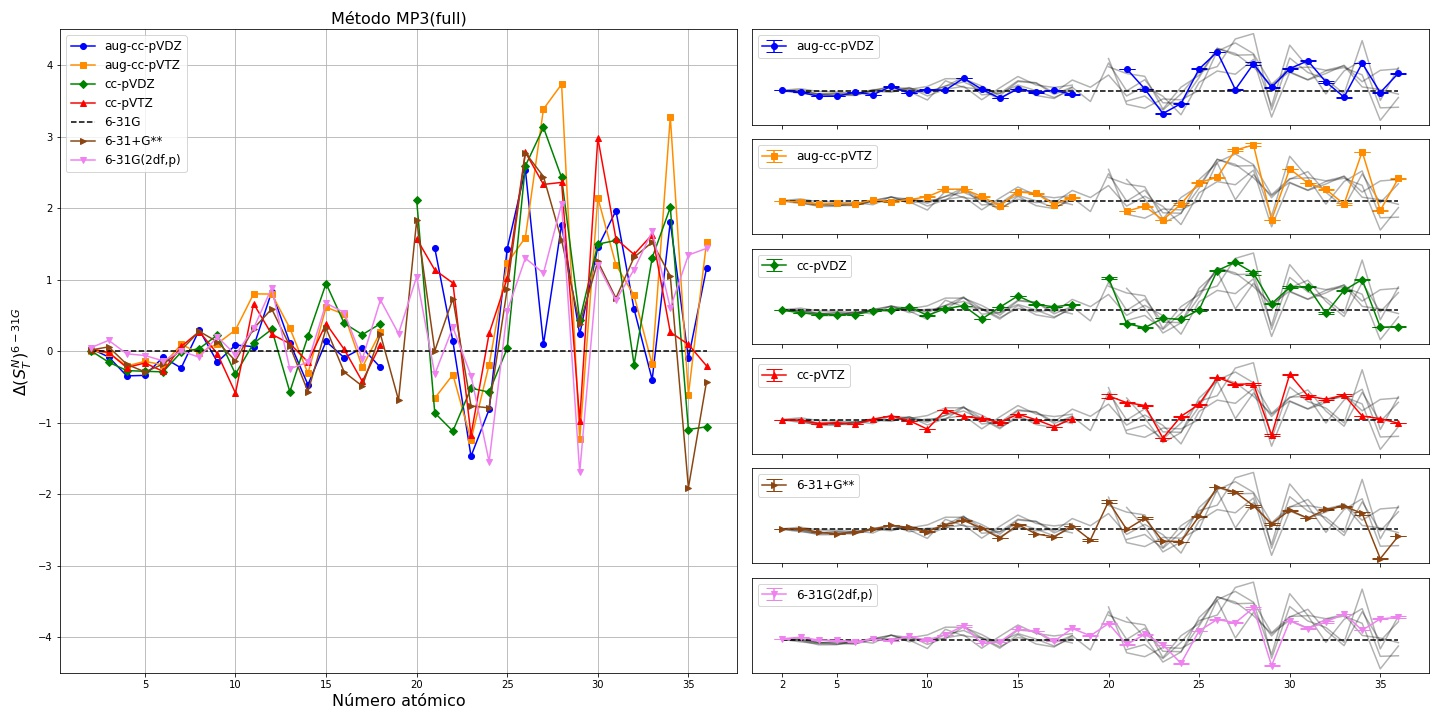
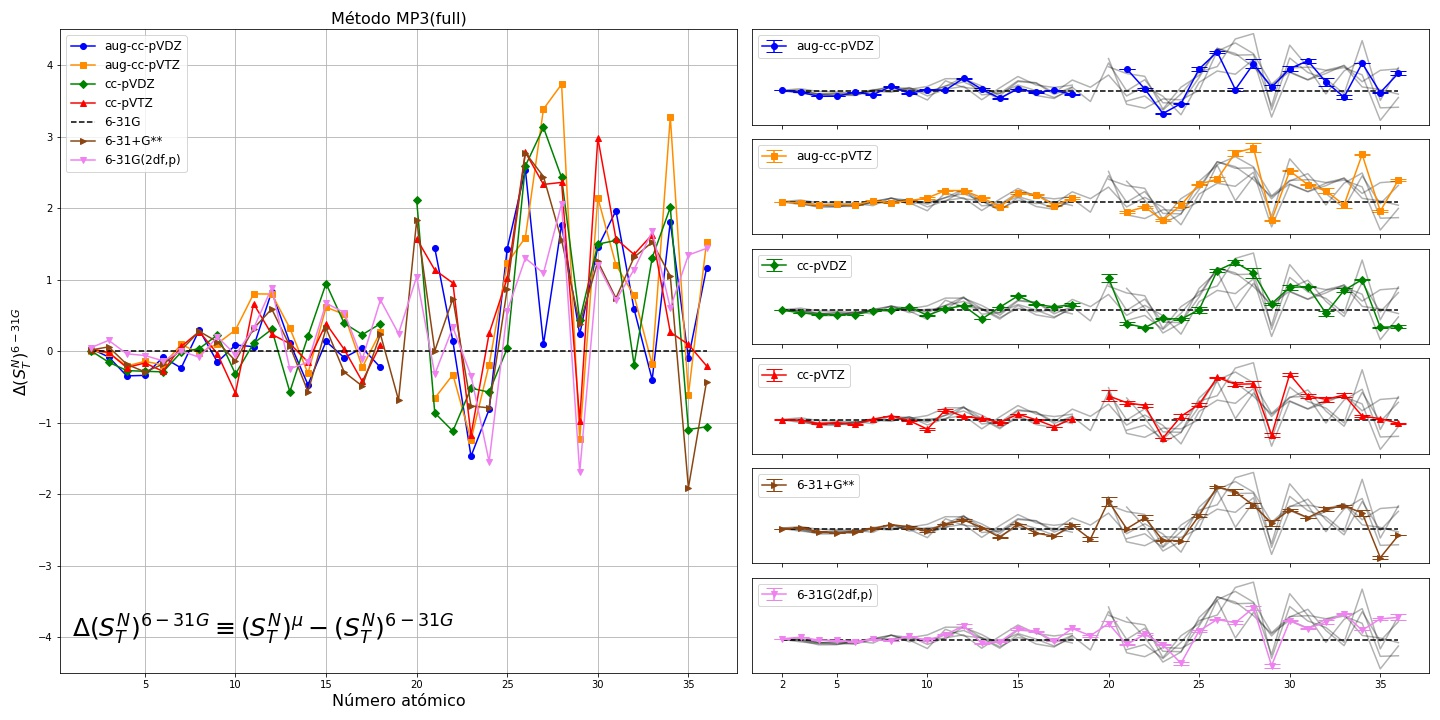
Se retiró el estudio sobre moléculas, se modificaron agradecimientos y dedicatoria, se cambiaron las gráficas por otras que presentaran más información, se agregaron más tablas y se realizaron pequeñas correcciones.

diff --git a/05-Resultados.tex b/05-Resultados.tex
@@ -15,7 +15,30 @@
             \begin{subfigure}{0.75\textwidth}
                 \includegraphics[width=\textwidth]{images/hfk_GraphsNTot.jpg}
                 \caption{}
-                \label{fig: deltasum-hf-n-tot}
+                \label{fig: deltasum-hfk-n-tot}
+            \end{subfigure}
+            \hfill
+            \begin{subfigure}{0.75\textwidth}
+                \includegraphics[width=\textwidth]{images/b3l_GraphsNTot.jpg}
+                \caption{}
+                \label{fig: deltasum-b3l-n-tot}
+            \end{subfigure}
+            \hfill
+            \begin{subfigure}{0.75\textwidth}
+                \includegraphics[width=\textwidth]{images/wb9_GraphsNTot.jpg}
+                \caption{}
+                \label{fig: deltasum-wb9-n-Tot}
+            \end{subfigure}
+            \caption{Diferencias de entropía $\Delta (S_{T}^{N_e})^{6-31G}\equiv(S_{T}^{N_e})^{\mu}-(S_{T}^{N_e})^{6-31G}$, para las bases $\mu\in\{\text{aug-cc-pVDZ, aug-cc-pVTZ, cc-pVDZ, cc-pVTZ, 6-31G, 6-31+G**, 6-31G(2df,p)}\}$ contra número atómico (1--36), para los métodos HF (\ref{fig: deltasum-hfk-n-tot}), B3LYP (\ref{fig: deltasum-b3l-n-tot}) y $\omega$B97X-D (\ref{fig: deltasum-wb9-n-Tot}). El lado izquierdo muestra una comparación entre todas las bases mencionadas con referencia en 6-31G, mientras que el derecho se enfoca en cada una de ellas, agregando barras de error para cada uno de los valores obtenidos.}
+            \label{fig: deltasum-n-tot-1}
+        \end{figure}
+
+        \begin{figure}
+            \centering
+            \begin{subfigure}{0.75\textwidth}
+                \includegraphics[width=\textwidth]{images/mp2_GraphsNTot.jpg}
+                \caption{}
+                \label{fig: deltasum-mp2-n-tot}
             \end{subfigure}
             \hfill
             \begin{subfigure}{0.75\textwidth}
@@ -25,24 +48,24 @@
             \end{subfigure}
             \hfill
             \begin{subfigure}{0.75\textwidth}
-                \includegraphics[width=\textwidth]{images/b3l_GraphsNTot.jpg}
+                \includegraphics[width=\textwidth]{images/mp4_GraphsNTot.jpg}
                 \caption{}
-                \label{fig: deltasum-b3lyp-n-Tot}
+                \label{fig: deltasum-mp4-n-Tot}
             \end{subfigure}
-            \caption{Diferencias de entropía $\Delta (S_{T}^{N_e})^{6-31G}\equiv(S_{T}^{N_e})^{\mu}-(S_{T}^{N_e})^{6-31G}$, para las bases $\mu\in\{\text{aug-cc-pVDZ, aug-cc-pVTZ, cc-pVDZ, cc-pVTZ, 6-31G, 6-31+G**, 6-31G(2df,p)}\}$ contra número atómico (1--36), para los métodos HF (\ref{fig: deltasum-hf-n-tot}), MP3(full) (\ref{fig: deltasum-mp3-n-tot}) y B3LYP (\ref{fig: deltasum-b3lyp-n-Tot}). El lado izquierdo muestra una comparación entre todas las bases mencionadas con referencia en 6-31G, mientras que el derecho se enfoca en cada una de ellas, agregando barras de error para cada uno de los valores obtenidos.}
-            \label{fig: deltasum-n-tot}
+            \caption{Diferencias de entropía $\Delta (S_{T}^{N_e})^{6-31G}\equiv(S_{T}^{N_e})^{\mu}-(S_{T}^{N_e})^{6-31G}$, para las bases $\mu\in\{\text{aug-cc-pVDZ, aug-cc-pVTZ, cc-pVDZ, cc-pVTZ, 6-31G, 6-31+G**, 6-31G(2df,p)}\}$ contra número atómico (1--36), para los métodos MP2(full) (\ref{fig: deltasum-mp2-n-tot}), MP3(full) (\ref{fig: deltasum-mp3-n-tot}) y MP4(SDQ) (\ref{fig: deltasum-mp4-n-Tot}). El lado izquierdo muestra una comparación entre todas las bases mencionadas con referencia en 6-31G, mientras que el derecho se enfoca en cada una de ellas, agregando barras de error para cada uno de los valores obtenidos.}
+            \label{fig: deltasum-n-tot-2}
         \end{figure}
         
-        El comportamiento de las $\Delta (S_{T}^{N_e})^{6-31G}$ para todas las bases que no son referencia muestran aparentes fluctuaciones alrededor del cero que van incrementando proporcionalmente con el número atómico, lo cual indica que las bases habrán de tener calidades semejantes para números atómicos cercanos a 1, mientras que discrepan notoriamente para aquellos cercanos a 36. Esto debido a que las bases describen con mayor dificultad a los átomos conforme el número atómico incrementa. Este evento sucede de manera semejante para todos los métodos restantes.
+        El comportamiento de las $\Delta (S_{T}^{N_e})^{6-31G}$ para todas las bases que no son referencia muestran aparentes fluctuaciones alrededor del cero que van incrementando proporcionalmente con el número atómico, lo cual indica que las bases habrán de tener calidades semejantes para números atómicos cercanos a 1, mientras que discrepan notoriamente para aquellos cercanos a 36. Particularmente, estas fluctuaciones incrementan bruscamente a partir del número atómico 19, donde comienza la presencia de los metales de transición. Todo esto es debido a que las bases describen con mayor dificultad a los átomos conforme el número atómico incrementa y los metales de transición son los primeros en mostrar dificultades en ser descritos por las bases utilizadas.
         
-        Los resultados mostrados en las figuras \ref{fig: deltasum-n-tot} muestran que el uso de la suma de la entropía de Shannon $S_{T}^{N_e}$ podría no fungir como medida confiable para la calidad de las bases si se compara entre diferentes átomos, por ejemplo, el átomo con número atómico 29 en la figura \ref{fig: deltasum-mp3-n-tot} mostraría que la calidad en la base aug-cc-pVTZ es menor a aquella en la base 6-31G, pues $\Delta (S_{T}^{N_e})^{6-31G} = -1.23\pm0.015$, mientras que el átomo con número atómico 30 indicaría el caso contrario con $\Delta (S_{T}^{N_e})^{6-31G} = 2.147\pm0.011$.
+        Los resultados mostrados en las figuras \ref{fig: deltasum-n-tot-1} y \ref{fig: deltasum-n-tot-2} muestran que el uso de la suma de la entropía de Shannon $S_{T}^{N_e}$ podría no fungir como medida confiable para la calidad de las bases si se compara entre diferentes átomos, por ejemplo, el átomo con número atómico 29 en la figura \ref{fig: deltasum-mp3-n-tot} mostraría que la calidad en la base aug-cc-pVTZ es menor a aquella en la base 6-31G, pues $\Delta (S_{T}^{N_e})^{6-31G} = -1.23\pm0.015$, mientras que el átomo con número atómico 30 indicaría el caso contrario con $\Delta (S_{T}^{N_e})^{6-31G} = 2.147\pm0.011$.
         
-        Las tablas \ref{tab: deltasum-n-tot} muestran las sumas de las diferencias $\Delta (S_{T}^{N_e})_i^{6-31G}$ para cada átomo $i$-ésimo, con $i\in\{1,2,...,36\}$, y para una sola base $\mu$,
+        Las tablas \ref{tab: deltasum-n-tot} indican las sumas de las diferencias $\Delta (S_{T}^{N_e})_i^{6-31G}$ para cada átomo $i$-ésimo, con $i\in\{1,2,...,36\}$, y para una sola base $\mu$,
         \begin{align}
             \sum_{i=1}^{36}\Delta (S_{T}^{N_e})_i^{6-31G} = \sum_{i=1}^{36}\Sqbr{(S_{T}^{N_e})_i^{\mu}-(S_{T}^{N_e})_i^{6-31G}},
         \end{align}
-        ordenados de forma descendente para los métodos MP2(full), MP4(SDQ) y $\omega$B97X-D, incluyendo la incertidumbre $\sigma$ para cada suma. La base 6-31G no se muestra en las tablas al ser la referencia de $\Delta (S_{T}^{N_e})_i^{6-31G}$. Al tomar en cuenta el peso de cada término $\Delta (S_{T}^{N_e})_i^{6-31G}$, la suma $\sum_i\Delta (S_{T}^{N_e})_i^{6-31G}$ indicaría la calidad general de la base, dentro de un rango de números atómicos del 1 a 36.
-        
+        ordenados de forma descendente para los métodos MP2(full), MP4(SDQ) y $\omega$B97X-D, incluyendo la incertidumbre $\sigma$ para cada suma. La base 6-31G no se muestra en las tablas al ser la referencia de $\Delta (S_{T}^{N_e})_i^{6-31G}$. Al tomar en cuenta el peso de cada término $\Delta (S_{T}^{N_e})_i^{6-31G}$, la suma $\sum_i\Delta (S_{T}^{N_e})_i^{6-31G}$ indicaría la calidad general de la base, dentro de un rango de números atómicos del 1 a 36. 
+
         \begin{table}[htbp]
             \begin{subtable}[htbp]{0.5\textwidth}
                 \centering
@@ -65,6 +88,22 @@
                 \begin{tabular}{c|c|c}
                     Base & $\sum \Delta (S_{T}^{N_e})_i^{6-31G}$ & $\sigma$ \\
                     \hline \hline
+                    aug-cc-pVTZ & 17.967147 & 0.562968 \\
+                    cc-pVTZ & 17.151206 & 0.401457 \\
+                    6-31G(2df,p) & 13.536851 & 0.200741 \\
+                    6-31+G** & 12.663726 & 0.481137 \\
+                    cc-pVDZ & 11.825322 & 0.467958 \\
+                    aug-cc-pVDZ & 11.465729 & 0.422108 \\
+                \end{tabular}
+                \caption{Método MP3(full)}
+                \label{tab: deltasum-mp3-n-tot}
+            \end{subtable}
+            \hfill
+            \begin{subtable}[htbp]{0.5\textwidth}
+                \centering
+                \begin{tabular}{c|c|c}
+                    Base & $\sum \Delta (S_{T}^{N_e})_i^{6-31G}$ & $\sigma$ \\
+                    \hline \hline
                     cc-pVTZ & 10.128685 & 0.023400 \\
                     cc-pVDZ & 7.921664 & 0.013845 \\
                     aug-cc-pVTZ & 5.947558 & 0.093945 \\
@@ -75,8 +114,40 @@
                 \caption{Método MP4(SDQ)}
                 \label{tab: deltasum-mp4-n-tot}
             \end{subtable}
+             \hfill
+            \begin{subtable}[htbp]{0.5\textwidth}
+                \centering
+                \begin{tabular}{c|c|c}
+                    Base & $\sum \Delta (S_{T}^{N_e})_i^{6-31G}$ & $\sigma$ \\
+                    \hline \hline
+                    aug-cc-pVTZ & -2.687250 & 0.025184 \\
+                    cc-pVTZ & -3.039062 & 0.162700 \\
+                    6-31G(2df,p) & -4.140256 & 0.079262 \\
+                    6-31+G** & -6.363486& 0.153932 \\
+                    cc-pVDZ & -7.008983 & 0.034058 \\
+                    aug-cc-pVDZ & -9.831531 & 0.021970 \\
+                \end{tabular}
+                \caption{Método HF}
+                \label{tab: deltasum-hfk-n-tot}
+            \end{subtable}
             \hfill
-            \begin{subtable}[htbp]{\textwidth}
+            \begin{subtable}[htbp]{0.5\textwidth}
+                \centering
+                \begin{tabular}{c|c|c}
+                    Base & $\sum \Delta (S_{T}^{N_e})_i^{6-31G}$ & $\sigma$ \\
+                    \hline \hline
+                    aug-cc-pVTZ & 7.206050 & 0.016823 \\
+                    cc-pVTZ & 5.880107 & 0.241420 \\
+                    6-31G(2df,p) & 1.880675 & 0.261338 \\
+                    6-31+G** & 1.487288 & 0.053517 \\
+                    cc-pVDZ & 0.701543 & 0.384228 \\
+                    aug-cc-pVDZ & 0.313457 & 0.052916 \\
+                \end{tabular}
+                \caption{Funcional B3LYP}
+                \label{tab: deltasum-b3l-n-tot}
+            \end{subtable}
+            \hfill
+            \begin{subtable}[htbp]{0.5\textwidth}
                 \centering
                 \begin{tabular}{c|c|c}
                     Base & $\sum \Delta (S_{T}^{N_e})_i^{6-31G}$ & $\sigma$ \\
@@ -91,11 +162,15 @@
                 \caption{Funcional $\omega$B97X-D}
                 \label{tab: deltasum-wb9-n-tot}
             \end{subtable}
-            \caption{Suma de las cantidades $\Delta (S_{T}^{N_e})_i^{6-31G}$ sobre todos los átomos desde el hidrógeno hasta el criptón, para los métodos MP2(full) (\ref{tab: deltasum-mp2-n-tot}), MP4(SDQ) (\ref{tab: deltasum-mp4-n-tot}) y $\omega$B97X-D (\ref{tab: deltasum-wb9-n-tot}). Cada suma se realizó sobre una misma base, se incluyó su respectiva incertidumbre y se ordenaron de forma descendente.}
+            \caption{Suma de las cantidades $\Delta (S_{T}^{N_e})_i^{6-31G}$ sobre todos los átomos desde el hidrógeno hasta el criptón, para los métodos MP2(full) (\ref{tab: deltasum-mp2-n-tot}), MP3(full) (\ref{tab: deltasum-mp3-n-tot}), MP4(SDQ) (\ref{tab: deltasum-mp4-n-tot}) y HF (\ref{tab: deltasum-hfk-n-tot}), así como funcionales B3LYP (\ref{tab: deltasum-b3l-n-tot}) y $\omega$B97X-D (\ref{tab: deltasum-wb9-n-tot}). Cada suma se realizó sobre una misma base, se incluyó su respectiva incertidumbre y se ordenaron de forma descendente.}
             \label{tab: deltasum-n-tot}
-        \end{table}        
+        \end{table}                
         
-        Las tablas \ref{tab: deltasum-n-tot} se muestra que el método a utilizar influye considerablemente en la base. En la tabla \ref{tab: deltasum-mp2-n-tot}, el método MP2(full) incluye la correlación electrónica, por lo que las bases que más aportarán serán aquellas consistentes con la correlación electrónica, aug-cc-pVDZ, aug-cc-pVTZ, cc-pVDZ y cc-pVTZ, de las cuales, las primeras dos incluyen funciones difusas, lo cual ayuda a describir mejor las densidades electrónicas de los átomos, lo cual da indicios de que la entropía podría cumplir la función de medir la calidad de una base. No obstante, el orden que se presenta entre ellas y entre todas aquellas consideradas en el presente trabajo es algo que debe analizarse a mayor detalle, lo cual queda para trabajos futuros.
+        Estas muestran que el método a utilizar influye considerablemente en la base. En la mayoría de los métodos utilizados, MP2(full) (\ref{tab: deltasum-mp2-n-tot}), MP3(full) (\ref{tab: deltasum-mp3-n-tot}), MP4(SDQ) (\ref{tab: deltasum-mp4-n-tot}), B3LYP (\ref{tab: deltasum-b3l-n-tot}) y $\omega$B97X-D (\ref{tab: deltasum-wb9-n-tot}), se incluye la correlación electrónica, por lo que las bases que más habrían de aportar serían aquellas consistentes con la correlación electrónica, aug-cc-pVDZ, aug-cc-pVTZ, cc-pVDZ y cc-pVTZ, de las cuales, las primeras dos incluyen funciones difusas, lo cual ayuda a describir mejor las densidades electrónicas de los átomos y daría indicios de que la entropía podría cumplir la función de medir la calidad de una base. Tal y como se observa en sus respectivas tablas, las bases consistentes con la correlación electrónica son las que se ubican en las primeras posiciones. Otra observación es que la base 6-31G se encuentra como la de menor calidad para los mismos métodos, a excepción de MP2(full) (\ref{tab: deltasum-mp2-n-tot}), pues esta es la base que menos efectos permite toma en cuenta (correlación electrónica, densidad difusa y polarización). Sin embargo, para el método HF la misma base se muestra como la de mejor calidad, congruente con el hecho de que este método es el más simple y no toma en cuenta la correlación electrónica más allá del promedio, por lo que las bases restantes no habrían de influenciar sobre una mejora en calidad.
+        
+        Las posiciones en las que se presentan las bases presentan cierta consistencia, pero la dependencia de las bases al método requiere que se realice un análisis más detallado sobre las características de todos los miembros (bases y métodos) para determinar con más claridad la causa del orden mostrado, lo cual queda para trabajos futuros.
+        
+        Las tablas \ref{tab: deltasum-n-tot-method}, a diferencia de las \ref{tab: deltasum-n-tot}, comparan a métodos combinados con una sola base. Los valores negativos en un método indican, en este caso, que el método en combinación con la base, presenta una calidad menor al mismo método combinado con la base 6-31G. Por último, no se muestra una tabla para la base 6-31G porque toda combinación con ella, al ser la base de referencia, toma como valores el cero.
         
         \begin{table}[htbp]
             \begin{subtable}[htbp]{0.5\textwidth}
@@ -196,12 +271,10 @@
             \caption{Suma de las cantidades $\Delta (S_{T}^{N_e})_i^{6-31G}$ sobre todos los átomos desde el hidrógeno hasta el criptón, para las bases aug-cc-pVDZ (\ref{tab: deltasum-acd-n-tot}), aug-cc-pVTZ (\ref{tab: deltasum-act-n-tot}), cc-pVDZ (\ref{tab: deltasum-cd-n-tot}), cc-pVTZ (\ref{tab: deltasum-ct-n-tot}), 6-31G(2df,p) (\ref{tab: deltasum-2df-n-tot}) y 6-31+G** (\ref{tab: deltasum-631+g-n-tot}). Cada suma se realizó sobre un mismo método, se incluyó su respectiva incertidumbre y se ordenaron de forma descendente.}
             \label{tab: deltasum-n-tot-method}
         \end{table}
-                
-        Las tablas \ref{tab: deltasum-n-tot-method}, a diferencia de las \ref{tab: deltasum-n-tot}, comparan métodos combinados con una sola base. Es ellas se muestra consistencia con algunos de los métodos usados, por ejemplo, el funcional $\omega$B97X-D, al incluir interacciones de largo alcance, presenta una mayor calidad que $B3LYP$, el método HF es el único que no considera la energía de correlación electrónica más allá del promedio, por lo que se presenta como el método con la menor calidad, le sigue MP2(full) al tomar en cuenta correlación electrónica en un porcentaje menor a comparación de MP3(full). MP4(SDQ) es un caso distinto al no estar completo y no utilizar excitaciones triples.
         
-        Por otro lado, al mostrarse un orden distinto entre cada tabla del grupo \ref{tab: deltasum-n-tot-method}, también se muestra dependencia entre el método y la base con respecto a sus calidades.
+        En ellas se muestra consistencia con algunos de los métodos usados, por ejemplo, el funcional $\omega$B97X-D, al incluir interacciones de largo alcance, presenta una mayor calidad que $B3LYP$, el método HF es el único que no considera la energía de correlación electrónica más allá del promedio, por lo que se presenta como el método con la menor calidad. Le sigue MP2(full) al tomar en cuenta correlación electrónica en un porcentaje menor a comparación de MP3(full). MP4(SDQ) es un caso distinto al no estar completo y no utilizar excitaciones triples.
         
-        Los resultados mostrados en las tablas \ref{tab: deltasum-n-tot-method} dan indicio de que la entropía de Shannon puede presentar congruencia con la calidad en el uso de los métodos, sin embargo, nuevamente se requiere un análisis más detallado que quedará para futuros trabajos.
+        Por otro lado, al mostrarse un orden distinto entre cada tabla del grupo \ref{tab: deltasum-n-tot-method}, también se muestra dependencia del método a la base con respecto a sus calidades.
         
-    \section{Entropías de Shannon en moléculas simples}
+        Los resultados mostrados en las tablas \ref{tab: deltasum-n-tot-method} dan indicio de que la entropía de Shannon puede presentar consistencia con la calidad en el uso de los métodos, sin embargo, nuevamente se requiere un análisis más detallado que quedará para futuros trabajos.
         

diff --git a/03-Antecedentes.tex b/03-Antecedentes.tex
@@ -256,7 +256,7 @@
             \end{align}
             en unidades atómicas.
         
-            A sabiendas de la utilidad de la función \eqref{eq: densidad elec}, la entropía de Shannon puede otorgar información sobre el grado de localización de los electrones en un átomo o molécula: Cuanto mayor sea su valor, mayor incertidumbre habrá sobre sus posiciones o momentos. Conocida la densidad electrónica de un átomo o molécula, las entropías de Shannon en el espacio de posiciones $S_{\rho}$ y en espacio de momentos $S_{\Pi}$ pueden expresarse como \cite{sagar}
+            A sabiendas de la utilidad de la función \eqref{eq: densidad elec}, la entropía de Shannon puede otorgar información sobre el grado de localización de los electrones en un átomo o molécula: Cuanto mayor sea su valor, mayor incertidumbre habrá sobre sus posiciones o cantidades de movimiento. Conocida la densidad electrónica de un átomo o molécula, las entropías de Shannon en el espacio de posiciones $S_{\rho}$ y en espacio de momentos $S_{\Pi}$ pueden expresarse como \cite{sagar}
             \begin{align}\label{eq: entropia N}
                 S_{\rho}^{N_{e}}(\bm{r}) & = -\int\rho\!\Par{\bm{r}}\ln{\Sqbr{\rho\!\Par{\bm{r}}}}d\bm{r} \nonumber\\
                 \text{y} & \\
@@ -292,15 +292,15 @@
             \begin{align}\label{eq: suma entropias}
                 S_{\rho}^{N_{e}}+S_{\Pi}^{N_{e}} \ge 3N_{e}\Par{1+\ln{\pi}}-2N_{e}\ln{N_{e}},
             \end{align}
-            la cual muestra que habrá de presentarse una mínima incertidumbre entre las distribuciones de momentos y posiciones y depende del número de electrones del sistema. Sin embargo, si las densidades se encuentran normalizadas, aquél mínimo alcanzable es
+            la cual muestra que habrá de presentarse una mínima incertidumbre entre las distribuciones de momentos y posiciones y depende del número de electrones del sistema. Sin embargo, si las densidades se encuentran normalizadas a 1, aquél mínimo alcanzable es
             \begin{align}
                 S_{\rho}^{1}+S_{\Pi}^{1} \ge 3\Par{1+\ln{\pi}}.
             \end{align}
             
-            \textit{Gadre, S. et al.} \cite{gadre} propusieron que la suma de las entropías podría arrojar información sobre la calidad de un conjunto base que conforma a los orbitales atómicos y probó su hipótesis con los métodos y bases. \textit{Tripathi, A. et al.} \cite{tripathi}, realizaron una prueba semejantes, pero con la serie isoelectrónica del Berilio. Por último, \textit{H{\^o}, M. et al.} \cite{ho} mostraron estudios sobre la sensibilidad de las entropías $S_{\rho}$, $S_{\Pi}$ y $S_{\rho}+S_{\Pi}$ ante pequeñas variaciones de la densidad electrónica y sobre series isoelectrónicas de átomos.
+            \textit{Gadre, S. et al.} \cite{gadre} propusieron que la suma de las entropías podría arrojar información sobre la calidad de un conjunto base que conforma a los orbitales atómicos y probó su hipótesis con los métodos y bases. \textit{Tripathi, A. et al.} \cite{tripathi}, realizaron una prueba semejante, pero con la serie isoelectrónica del Berilio. Por último, \textit{H{\^o}, M. et al.} \cite{ho} mostraron estudios sobre la sensibilidad de las entropías $S_{\rho}$, $S_{\Pi}$ y $S_{\rho}+S_{\Pi}$ ante pequeñas variaciones de la densidad electrónica y sobre series isoelectrónicas de átomos.
                     
     \section{Método Hartree-Fock}
-        \noindent También llamado método del campo autoconsistente, consiste en encontrar la función de onda de un átomo a través de varias iteraciones \cite{berthier,mcweeny,pople,roothaan}. En este método, se consideran funciones de onda antisimétricas y se expresan a través de determinantes de Slater.
+        \noindent También llamado método del campo autoconsistente (SCF por sus siglas en inglés), consiste en encontrar la función de onda de un átomo a través de varias iteraciones \cite{berthier,mcweeny,pople,roothaan}. En este método, se consideran funciones de onda antisimétricas y se expresan a través de determinantes de Slater.
         
         Utilizando la notación de \textit{McQuarrie, D. A.} \cite{mcquarrie}, defínase la i-ésima función de onda espín orbital independiente del tiempo del j-ésimo electrón y con espín $\alpha$ como $\psi_{i}\alpha(j)$, mientras que con espín $\beta$, es $\psi_{i}\beta(j)$. Además, sea $\Psi(1,\dots,2N)$ la función de onda de un átomo compuesto por 2$N$ electrones. Al dotarle la característica de antisimetría, esta puede expresarse como
         \begin{align} \label{eq: funcion onda hf}
@@ -338,7 +338,7 @@
         \end{align}
         cuyo valor propio asociado al i-ésimo espín orbital es la energía orbital de Hartree-Fock, $\varepsilon_i$.
         
-        Si uno supone un sistema de capa cerrada, es decir que los orbitales se encuentran doblemente ocupados, el operador Fock puede depender únicamende de las coordenadas espaciales y expresarse como
+        Si uno supone un sistema de capa cerrada, es decir que los orbitales se encuentran doblemente ocupados, el operador Fock puede depender únicamente de las coordenadas espaciales y expresarse como
         \begin{align}
             \hat{F}(\bm{r}_1) = \hat{h}(\bm{r}_1)+\sum_{j}^{N_{e}}\Sqbr{2\hat{J}_j(\bm{r}_1)-\hat{K}_j(\bm{r}_1)}, 
         \end{align}
@@ -346,9 +346,9 @@
         \begin{align}
             \hat{J}_j(\bm{r}_1)\psi_i(\bm{r}_1) & = \psi_i(\bm{r}_1)\int d\bm{r}_2\psi_j^*(\bm{r}_2)\frac{1}{r_{12}}\psi_j(\bm{r}_2) \nonumber\\
             \text{y} & \\
-            \hat{K}_j(\bm{r}_1)\psi_i(\bm{r}_1) & = \psi_j(\bm{r}_1)\int d\bm{r}_2\psi_j^*(\bm{r}_2)\frac{1}{r_{12}}\psi_i(\bm{r}_2) \nonumber,
+            \hat{K}_j(\bm{r}_1)\psi_i(\bm{r}_1) & = \psi_j(\bm{r}_1)\int d\bm{r}_2\psi_j^*(\bm{r}_2)\frac{1}{r_{12}}\psi_i(\bm{r}_2) \nonumber
         \end{align}
-        donde las funciones de onda orbitales ahora son espaciales, $\psi$. Estas son \textit{ecuaciones restringidas de Hartree-Fock}, sin embargo, no es necesario que se aplique la condición de capa cerrada para encontrar las soluciones, pues también se puede derivar el operador de Fock para casos de capa abierta y sus ecuaciones se llamarán \textit{ecuaciones no restringidas de Hartree-Fock}.
+        y las funciones de onda orbitales ahora son espaciales, $\psi$. Estas son \textit{ecuaciones restringidas de Hartree-Fock}, sin embargo, no es necesario que se aplique la condición de capa cerrada para encontrar las soluciones, pues también se puede derivar el operador de Fock para casos de capa abierta y sus ecuaciones se llamarán \textit{ecuaciones no restringidas de Hartree-Fock}.
         
         A partir de la ecuación \eqref{eq: fock equation}, se puede obtener la energía del i-ésimo orbital,
         \begin{align}

diff --git a/01-Resumen_Introduccion.tex b/01-Resumen_Introduccion.tex
@@ -1,11 +1,11 @@
 \chapter{Resumen}
-    \noindent En este trabajo se estudia la entropía de la información de Shannon en un conjunto de átomos y moléculas en su estado base. Se busca establecer la posible aplicación de la entropía de Shannon como una medida de la calidad de la descripción de la densidad electrónica de los átomos. Para esto, se calculan las densidades electrónicas de los átomos y moléculas utilizando diversas bases y métodos de la química computacional. La entropía de Shannon se obtiene a través de una integración numérica con el método Vegas-Monte Carlo. Parte importante del trabajo consiste en la implementación eficiente de este algoritmo, además de adaptarlo a la suite \textit{DensToolKit}, el cual está programado en C++ y es un código libre.
+    \noindent En este trabajo se estudia la entropía de la información de Shannon en un conjunto de átomos en su estado base. Se busca establecer la posible aplicación de la entropía de Shannon como una medida de la calidad de la descripción de la densidad electrónica. Para esto, se calculan las densidades electrónicas de los átomos utilizando diversas bases y métodos de la química computacional. La entropía de Shannon se obtiene a través de una integración numérica con el método Vegas-Monte Carlo. Parte importante del trabajo consiste en la implementación eficiente de este algoritmo, además de adaptarlo a la suite \textit{DensToolKit}, el cual está programado en C++ y es un código libre.
     
 \chapter{Introducción}
-    \noindent El uso de la entropía de Shannon o entropía informacional en el campo de la química computacional tiene sus bases en los estudios de varios investigadores, tales como \textit{Brillouin, L.} \cite{brillouin1951}, quien asociaba la entropía informacional con la de Boltzmann. Se llegó incluso a deducir, por ejemplo, por \textit{Chakrabarti} \cite{chakrabarti}, que esta última es un caso especial de la entropía de Shannon debido a que todos los estados posibles que puede presentar un sistema tienen la misma probabilidad de ocurrencia.
+    \noindent El uso de la entropía de Shannon o entropía informacional en el campo de la química computacional tiene sus bases en los estudios de varios investigadores, tal como \textit{Brillouin, L.} \cite{brillouin1951}, quien asociaba la entropía informacional con la de Boltzmann. Se llegó incluso a deducir, por ejemplo, por \textit{Chakrabarti} \cite{chakrabarti}, que esta última es un caso especial de la entropía de Shannon debido a que todos los estados posibles que puede presentar un sistema tienen la misma probabilidad de ocurrencia.
     
     A partir de las analogías descubiertas, \textit{Bia{\l}ynicki-Birula, I. y Mycielski, J.} \cite{bialynicki} la usaron para expresar una forma análoga de la incertidumbre de Heisenberg, reemplazando las desviaciones estándar por las entropías, manteniendo un significado físico equivalente al de la incertidumbre de Heisenberg.
     
     Desde entonces, autores como \textit{Gadre, S. et al.} \cite{gadre} han propuesto que la entropía de Shannon podía tener alguna utilidad en cuanto a la calidad de las bases o métodos usados para derivar funciones de onda de átomos o moléculas, refiriéndonos a <<calidad>> como la aproximación numérica que tiene una función de onda con respecto a las observaciones experimentales. Siendo este hecho el inicio del uso de esta herramienta en el campo de la química computacional, varios autores empezaron a estudiarla con mayor detalle \cite{sagar,ho,tripathi}, profundizando su aplicación en la calidad anteriormente mencionada y en su relación con la energía del sistema. Sin embargo, hasta ahora, no hay suficiente información para concluir si la entropía de Shannon es determinante para medir la calidad de una base.
     
-    En la tesis presente, se empleó la suite \textit{DensToolKit} e implementamos en ella el algoritmo de integración Vegas-Monte Carlo para probar la entropía informacional en diversos conjuntos base gaussianos, usando el método Hartree-Focky diversos métodos post-Hartree-Fock en varios átomos (del hidrógeno al criptón) y moléculas (ácido fluorhídrico, agua, amoniaco y metano) para corroborar si se presenta una relación entre esta cantidad y tales bases o métodos.
+    En la tesis presente, se empleó la suite \textit{DensToolKit} e implementó en ella el algoritmo de integración Vegas-Monte Carlo para probar la entropía informacional en diversos conjuntos de base gaussiana, usando el método Hartree-Fock y diversos métodos post-Hartree-Fock en varios átomos (del hidrógeno al criptón) para corroborar si se presenta una relación entre esta cantidad y tales bases o métodos.

diff --git a/06-Conclusiones.tex b/06-Conclusiones.tex
@@ -1,6 +1,6 @@
 \chapter{Conclusiones}
-    \noindent Se desarrolló e implementó el algoritmo Las Vegas-Monte Carlo para funciones 3D sobre el paquete de programas \textit{DensToolKit}, permitiendo utilizar tal algoritmo en átomos y moléculas para analizar sus propiedades. Una vez implementado en \textit{DensToolKit}, se analizó su eficiencia comparando sus cálculos con aquellos realizados por el método Monte Carlo, así como con aquellos publicados por \textit{Flores-Gallegos, N.} \cite{flores_gallegos} y \textit{Hô, M. et al.} \cite{flores_gallegos,sagar}. Se probó que el método implementado presenta una eficiencia muy por encima de Monte Carlo y realiza cálculos comparables con los realizados por los mismos autores.
+    \noindent Se desarrolló e implementó el algoritmo Las Vegas-Monte Carlo para funciones 3D sobre el paquete de programas \textit{DensToolKit}, permitiendo utilizar tal algoritmo en átomos para analizar sus propiedades. Una vez implementado en \textit{DensToolKit}, se analizó su eficiencia comparando sus cálculos con aquellos realizados por el método Monte Carlo, así como con aquellos publicados por \textit{Flores-Gallegos, N.} \cite{flores_gallegos} y \textit{Hô, M. et al.} \cite{flores_gallegos,sagar}. Se probó que el método implementado presenta una eficiencia muy por encima de Monte Carlo y realiza cálculos comparables con los realizados por los mismos autores.
     
-    Se calcularon las entropías de Shannon sobre 36 átomos crecientes en número atómico y 5 moléculas isoelectrónicas a 10 electrones, ambos casos en métodos y bases distintos para corroborar una relación entre la entropía de Shannon y la calidad de las bases. Los resultados mostraron una aparente relación entre la entropía y los métodos y bases utilizados en el presente trabajo sólo cuando se tratan todos los átomos en conjunto y no de forma individual, pues se descubrió que la entropía de Shannon no parece fungir adecuadamente en la medida de la calidad de las bases cuando se compara entre átomos, sin embargo, mostraron indicios de fungir como una medida adecuada de la calidad en bases y métodos al considerar una entropía sobre todos los átomos en general y no sobre átomos en específico.
+    Se calcularon las entropías de Shannon sobre 36 átomos crecientes en número atómico y con métodos y bases distintos para corroborar una relación entre la entropía de Shannon y la calidad de las bases. Los resultados mostraron una aparente relación entre la entropía y los métodos y bases utilizados en el presente trabajo solo cuando se tratan todos los átomos en conjunto y no de forma individual, pues se descubrió que la entropía de Shannon no parece fungir adecuadamente en la medida de la calidad de las bases cuando se compara entre átomos, sin embargo, mostraron indicios de fungir como una medida adecuada de la calidad en bases y métodos al considerar una entropía sobre todos los átomos en general y no sobre átomos en específico.
     
-    Se tienen esperados más trabajos para realizar análisis más detallados sobre la calidad de las bases y métodos a través de la entropía. Se propone comparar las entropías informacionales con las energías de los sistemas formados por distintas bases y calculados por distintos métodos.
+    Se tienen esperados más trabajos para realizar análisis más detallados sobre la calidad de las bases y métodos a través de la entropía. Se propone comparar las entropías informacionales con las energías de los sistemas formados por distintas bases y calculados por distintos métodos. Así mismo, se propone realizar el mismo estudio sobre moléculas para determinar si se cumplen comportamientos semejantes al de los átomos.

diff --git a/04-Metodologia.tex b/04-Metodologia.tex
@@ -107,7 +107,7 @@
             
         Los resultados mencionados anteriormente muestran que el programa \textit{dtkintegrate} se implementó adecuadamente en la suite \text{DensToolKit} y muestran la eficiencia esperada del algoritmo Las Vegas+ en funciones de comportamiento gaussiano, por lo que se procedió a realizar las comparaciones entre las distintas combinaciones de los métodos HF, MP2(full), MP3(full), MP4SDQ, B3LYP, $\omega$B97X-D y las bases 6-31G, 6-31+G**, 6-31G(2df,p), cc-pVDZ, cc-pVTZ, aug-cc-pVDZ y aug-cc-pVTZ para átomos del Hidrógeno al Criptón.
         
-    \section{Entropías de Shannon en moléculas simples}
-        \noindent Se escogieron entre cinco moléculas y átomos que presentaran diez electrones en su estado neutral, pero que se diferenciaran entre ellos por su número de enlaces: Neón, ácido fluorhídrico, agua, amoniaco y metano. Todas ellas incrementan respectivamente su número de enlaces en una unidad desde cero hasta cuatro y las combinaciones método-base utilizadas fueron las mismas.
+    % \section{Entropías de Shannon en moléculas simples}
+        % \noindent Se escogieron entre cinco moléculas y átomos que presentaran diez electrones en su estado neutral, pero que se diferenciaran entre ellos por su número de enlaces: Neón, ácido fluorhídrico, agua, amoniaco y metano. Todas ellas incrementan respectivamente su número de enlaces en una unidad desde cero hasta cuatro y las combinaciones método-base utilizadas fueron las mismas.
         
-        Se calcularon las entropías informacionales en la densidad normalizada al número de electrones, normalizada a la unidad y relativa, tomando como densidad de referencia su máximo global. Posteriormente, se analizó el comportamiento de las tres entropías conforme incrementaba el número de enlaces.
+        % Se calcularon las entropías informacionales en la densidad normalizada al número de electrones, normalizada a la unidad y relativa, tomando como densidad de referencia su máximo global. Posteriormente, se analizó el comportamiento de las tres entropías conforme incrementaba el número de enlaces.

diff --git a/CO1-Dedicatoria.tex b/CO1-Dedicatoria.tex
@@ -6,11 +6,17 @@
     Mira la cumbre de la montaña, pero recuerda admirar las cosas bellas del camino sin olvidar los pasos que dejas atrás.\\
     Después de todo, el regalo es la experiencia y la cima es parte del viaje.
     \\ \vspace{0.5cm}
-    {\em Santiago Flores}}}
+    {\em Santiago A. Flores Román}}}
 \end{flushright}
 
 \chapter*{Dedicatoria}
-    Para mi amada esposa Diana Marlén y mis queridos abuelos, a quienes llevaré siempre en mi corazón.
+    A mis abuelos Hebert y Socorro, a quienes siempre llevaré en mi corazón. Ellos me mostraron que una persona con voluntad es capaz de cambiar lo que desea en su vida. Antes de que descansen los dos juntos, les entrego este trabajo como muestra de lo que lograron marcar en mí, su sabiduría.
+    
+    Para mi amada esposa Diana Marlén. Cada letra en este trabajo es un detalle que le entrego con mi corazón y cada idea expresada en el mismo es una muestra del futuro que deseo que tengamos juntos. Este es un primer paso, pero los siguientes serán nuestro vuelo.
 
 \chapter*{Agradecimientos}
-    Aquí van los agradecimientos
+    A mi asesor Dr. Juan Manuel Solano Altamirano, quien me guió y acompañó durante este proyecto y muchos otros anteriores a este. Con ellos, me ayudó a desarrollar las herramientas que serán las más útiles para el futuro.
+    
+    A toda mi familia. Ellos me han apoyado constantemente durante toda la licenciatura y sé que no habría llegado hasta acá si no hubiera sido por ellos.
+    
+    A mi amada esposa Diana Marlén. En los momentos de mayor tensión y presión, ella me ha ayudado mucho no solo durante el transcurso de la licenciatura, sino que también con el desarrollo de este trabajo. Incluso me enseñó conceptos que van más allá de la física, los químicos.

diff --git a/02-Objetivos.tex b/02-Objetivos.tex
@@ -1,10 +1,9 @@
 \chapter{Objetivos}
     \section{General}
-        Implementar el método de integración numérico Monte Carlo, en su variante Las Vegas+, y adaptarlo al programa DensToolKit, con el fin de estudiar las entropías informacionales de átomos y moléculas.
+        Implementar el método de integración numérico Monte Carlo, en su variante Las Vegas+, y adaptarlo al programa DensToolKit, con el fin de estudiar las entropías informacionales de átomos.
     \section{Específicos}
         \begin{itemize}
             \item Implementar el método Vegas-Monte Carlo para realizar integrales numéricas 3D de funciones con varios centros cuasi-singulares.
             \item Incorporar el método en el software DensToolKit.
-            \item Analizar la entropía informacional en un conjunto de átomos en su estado base (del hidrógeno al criptón), con diferentes bases y métodos.
-            \item Analizar la entropía informacional en un conjunto pequeño de moléculas (ácido fluorhídrico, agua, amoniaco y metano), las cuales tienen 10 electrones en total, con diferentes bases y métodos.
+            \item Analizar la entropía informacional en un conjunto de átomos en su estado base (del hidrógeno al criptón) con los métodos HF, MP2(full), MP3(full), MP4(SDQ), B3LYP, $\omega$B97X-D y las bases 6-31G, 6-31+G**, 6-31G(2df,p), cc-pVDZ, cc-pVTZ, aug-cc-pVDZ y aug-cc-pVTZ.
         \end{itemize}
